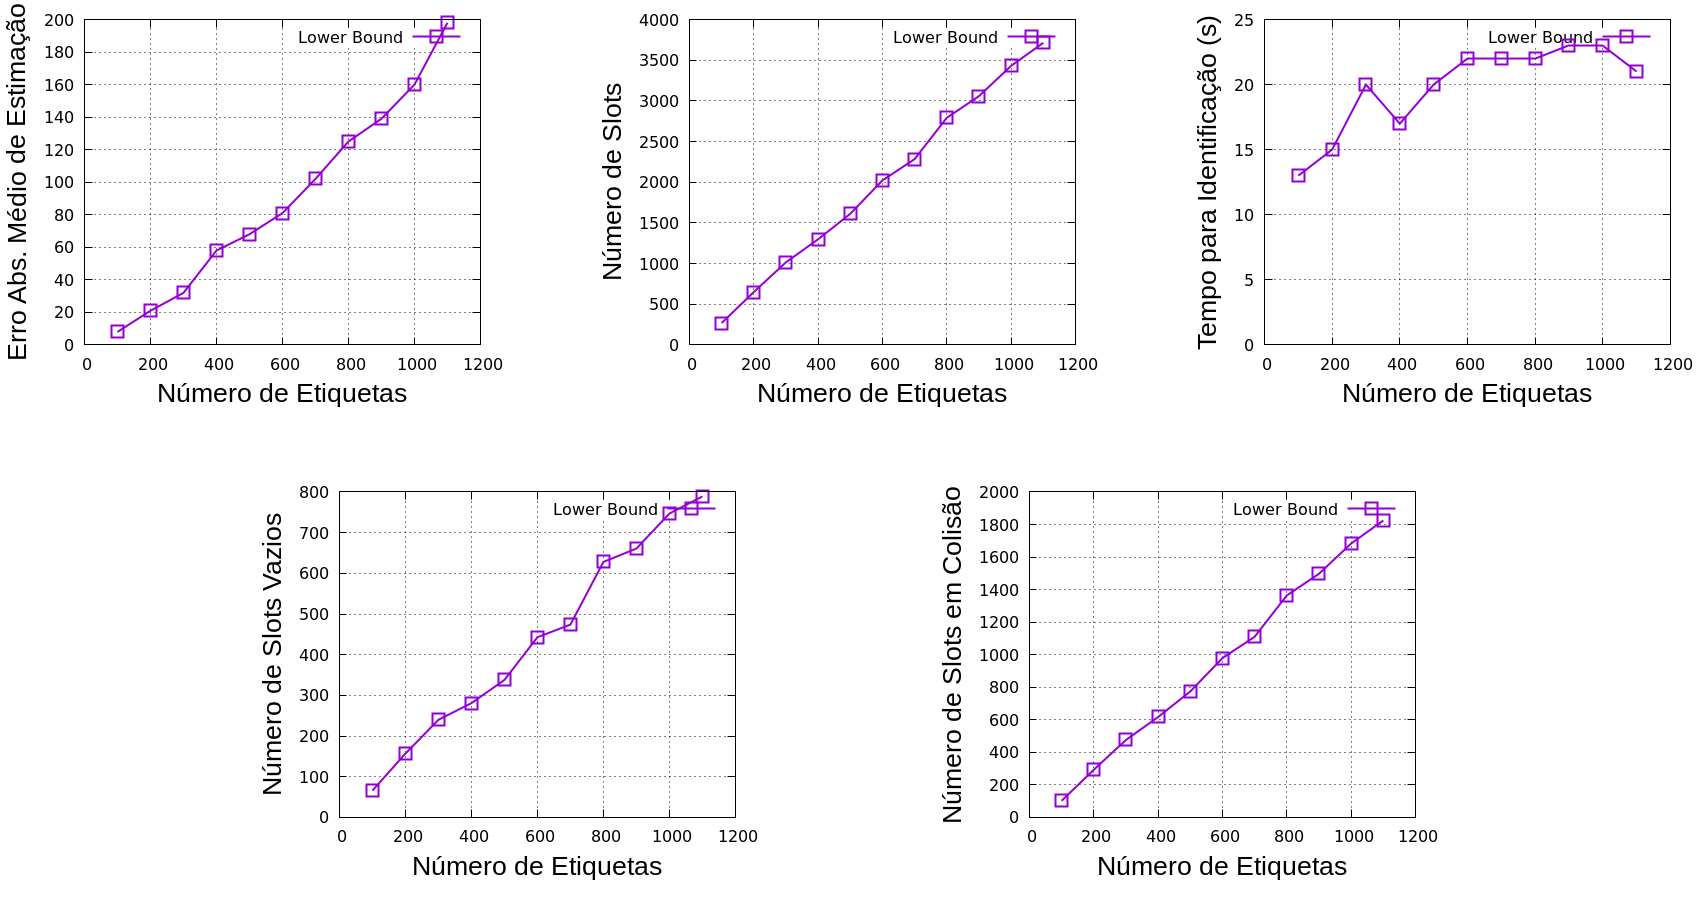
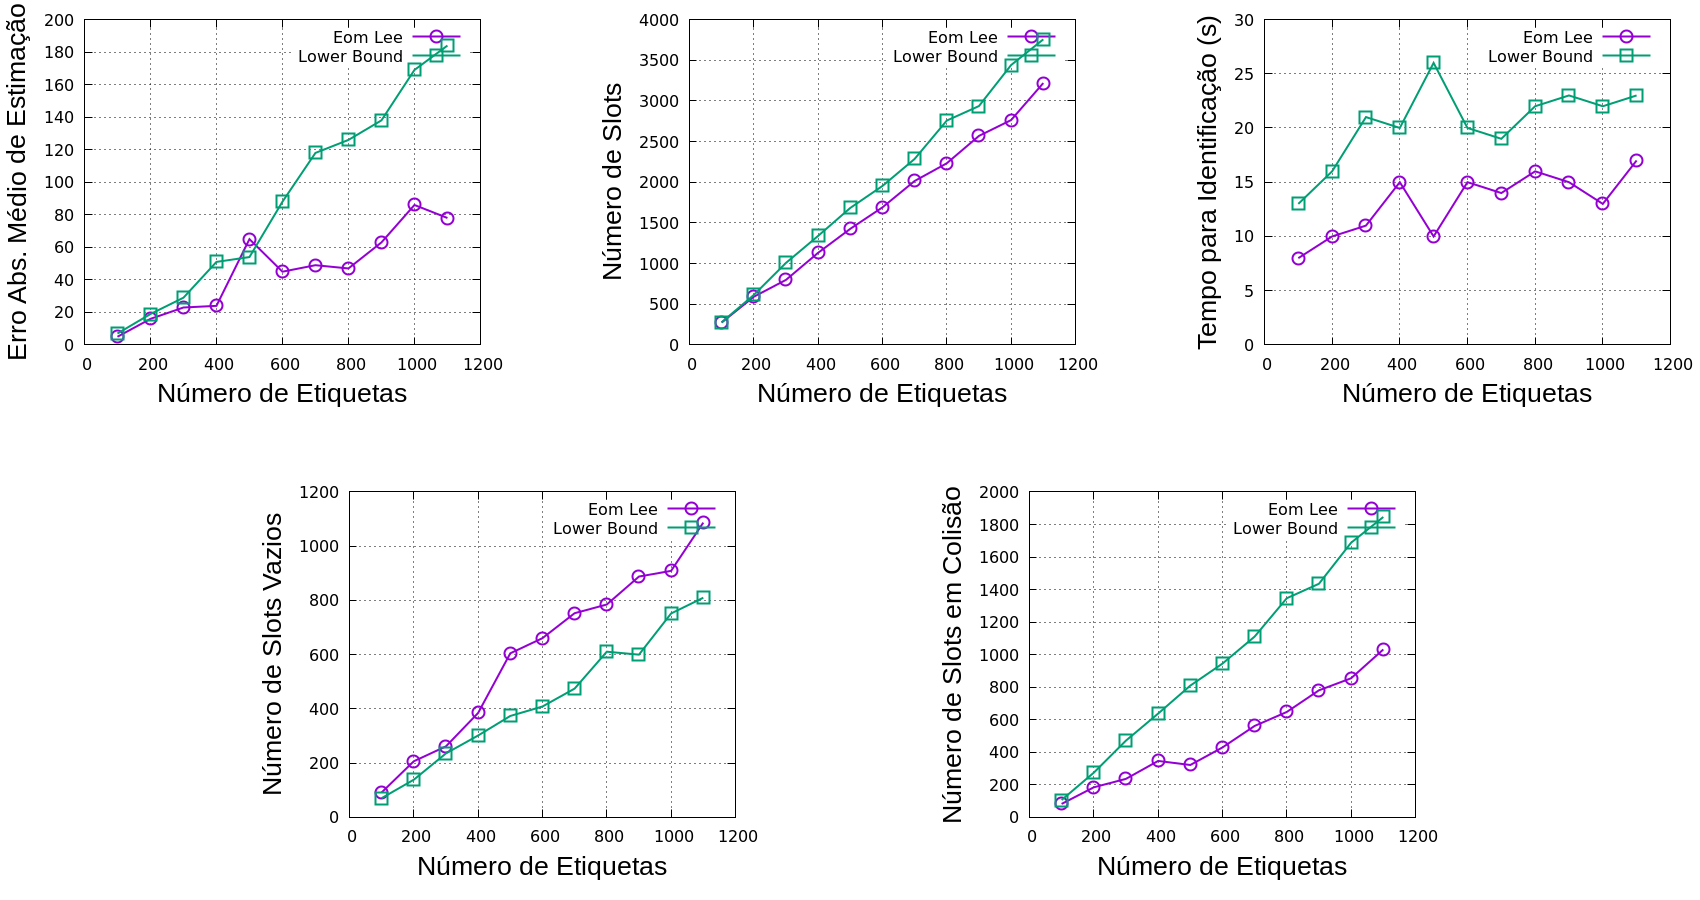
fixes eom-lee

diff --git a/estimators.cpp b/estimators.cpp
@@ -94,6 +94,7 @@ void LowerBound::simulate(const EstimationParameters &parameters) const {
 	int abs_error = 0;
 
 	for (int i = 0; i < n; i++){
+		
 		while(tags_left > 0){
 			int sucess = 0;
 			int collision = 0;
@@ -172,7 +173,7 @@ void EomLee::simulate(const EstimationParameters &parameters) const {
 
 	for (int i = 0; i < n; i++){
 
-		while(tags_left != 0){
+		while(tags_left > 0){
 			int sucess = 0;
 			int collision = 0;
 			int empty = 0;
@@ -192,11 +193,8 @@ void EomLee::simulate(const EstimationParameters &parameters) const {
 				}
 			}
 
-			abs_error += 0;
-			if(current_size > tags_left){
-				abs_error += abs(current_size - tags_left);
-			}
-
+			abs_error += abs(current_size - tags_left);
+		
 			tags_left -= sucess;
 
 			total_sucess += sucess;
@@ -206,21 +204,24 @@ void EomLee::simulate(const EstimationParameters &parameters) const {
 			total_frames ++;
 			
 			//eom lee - frame size
-
 			int L = sucess + collision + empty;			
 			double yk = 2;
 			double threshold = 0.001;
-			int i = 1;
+			double last_yk = 0;
+			double bk = 0;
+			double e = 0;
+			//primeiro caso: bk = infinito / yk = 2
 			while(true){
-				double last_yk = yk;
-				double bk = L/(last_yk * collision * sucess);
-				double e = exp(-1 / bk);
-            			yk = (1 - e) / (bk * (1 - (1 + 1 / bk) * e));
-
             			if (abs(last_yk - yk) < threshold) {
 					current_size = ceil(yk * collision);
 					break;
 				}
+
+				last_yk = yk;
+
+				bk = L/((last_yk * collision) + sucess);
+				e = exp(-1 / bk);
+            			yk = (1 - e) / (bk * (1 - (1 + (1 / bk)) * e));
 			}
 
 			slots = new int[current_size];	
